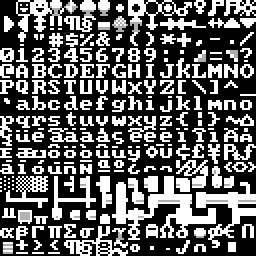
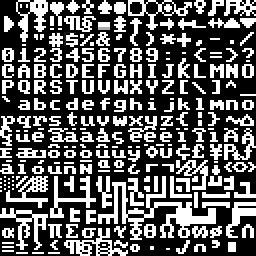
tweaked the colors for probably way too long, and updated the font files to make them less videogame:y and more ascii:y

diff --git a/src/main.rs b/src/main.rs
@@ -5,8 +5,8 @@ mod camera;
 
 mod prelude {
     pub use bracket_lib::prelude::*;
-    pub const SCREEN_WIDTH: i32 = 90;
-    pub const SCREEN_HEIGHT: i32 = 60;
+    pub const SCREEN_WIDTH: i32 = 80;
+    pub const SCREEN_HEIGHT: i32 = 45;
     pub const DISPLAY_WIDTH: i32 = SCREEN_WIDTH / 2;
     pub const DISPLAY_HEIGHT: i32 = SCREEN_HEIGHT / 2;
 
@@ -57,11 +57,12 @@ fn main() -> BError {
         .with_title("Mt. Septune")
         .with_fps_cap(30.0)
         .with_dimensions(DISPLAY_WIDTH, DISPLAY_HEIGHT)
-        .with_tile_dimensions(16, 16)
+        .with_tile_dimensions(32, 32)
         .with_resource_path("resources/")
-        .with_font("haro_16x16.png", 16, 16)
-        .with_simple_console(DISPLAY_WIDTH, DISPLAY_HEIGHT, "haro_16x16.png")
-        .with_simple_console_no_bg(DISPLAY_WIDTH, DISPLAY_HEIGHT, "haro_16x16.png") // no bg => transparency, new layer basically
+        .with_font("haro_32x32.png", 32, 32)
+        .with_simple_console(DISPLAY_WIDTH, DISPLAY_HEIGHT, "haro_32x32.png")
+        .with_simple_console_no_bg(DISPLAY_WIDTH, DISPLAY_HEIGHT, "haro_32x32.png") // no bg => transparency, new layer basically
+        .with_automatic_console_resize(false)
         .build()?;
 
     main_loop(context, State::new())

diff --git a/src/map.rs b/src/map.rs
@@ -55,18 +55,18 @@ impl Map {
                             ctx.set(
                                 x - camera.left_x,     // draw relative to camera pos
                                 y - camera.top_y,
-                                RGB::from_u8(25, 25, 25),
-                                BLACK,
-                                to_cp437('.'),
+                                RGB::from_u8(26, 26, 32),
+                                RGB::from_u8(11, 11, 15),
+                                to_cp437('░'),
                             );
                         }
                         TileType::Wall => {
                             ctx.set(
                                 x - camera.left_x,
                                 y - camera.top_y,
-                                SLATE_GRAY,
-                                BLACK,
-                                to_cp437('#'),
+                                RGB::from_u8(140, 123, 157),
+                                RGB::from_u8(165, 152, 179),
+                                to_cp437('╪'),
                             );
                         }
                         _ => {

diff --git a/src/player.rs b/src/player.rs
@@ -16,9 +16,9 @@ impl Player {
         ctx.set(
             self.position.x - camera.left_x, // draw relative to camera
             self.position.y - camera.top_y,
-            YELLOW,
+            RGB::from_u8(255, 204, 51),
             BLACK,
-            to_cp437('☺'),
+            to_cp437('@'),
         );
     }
 
